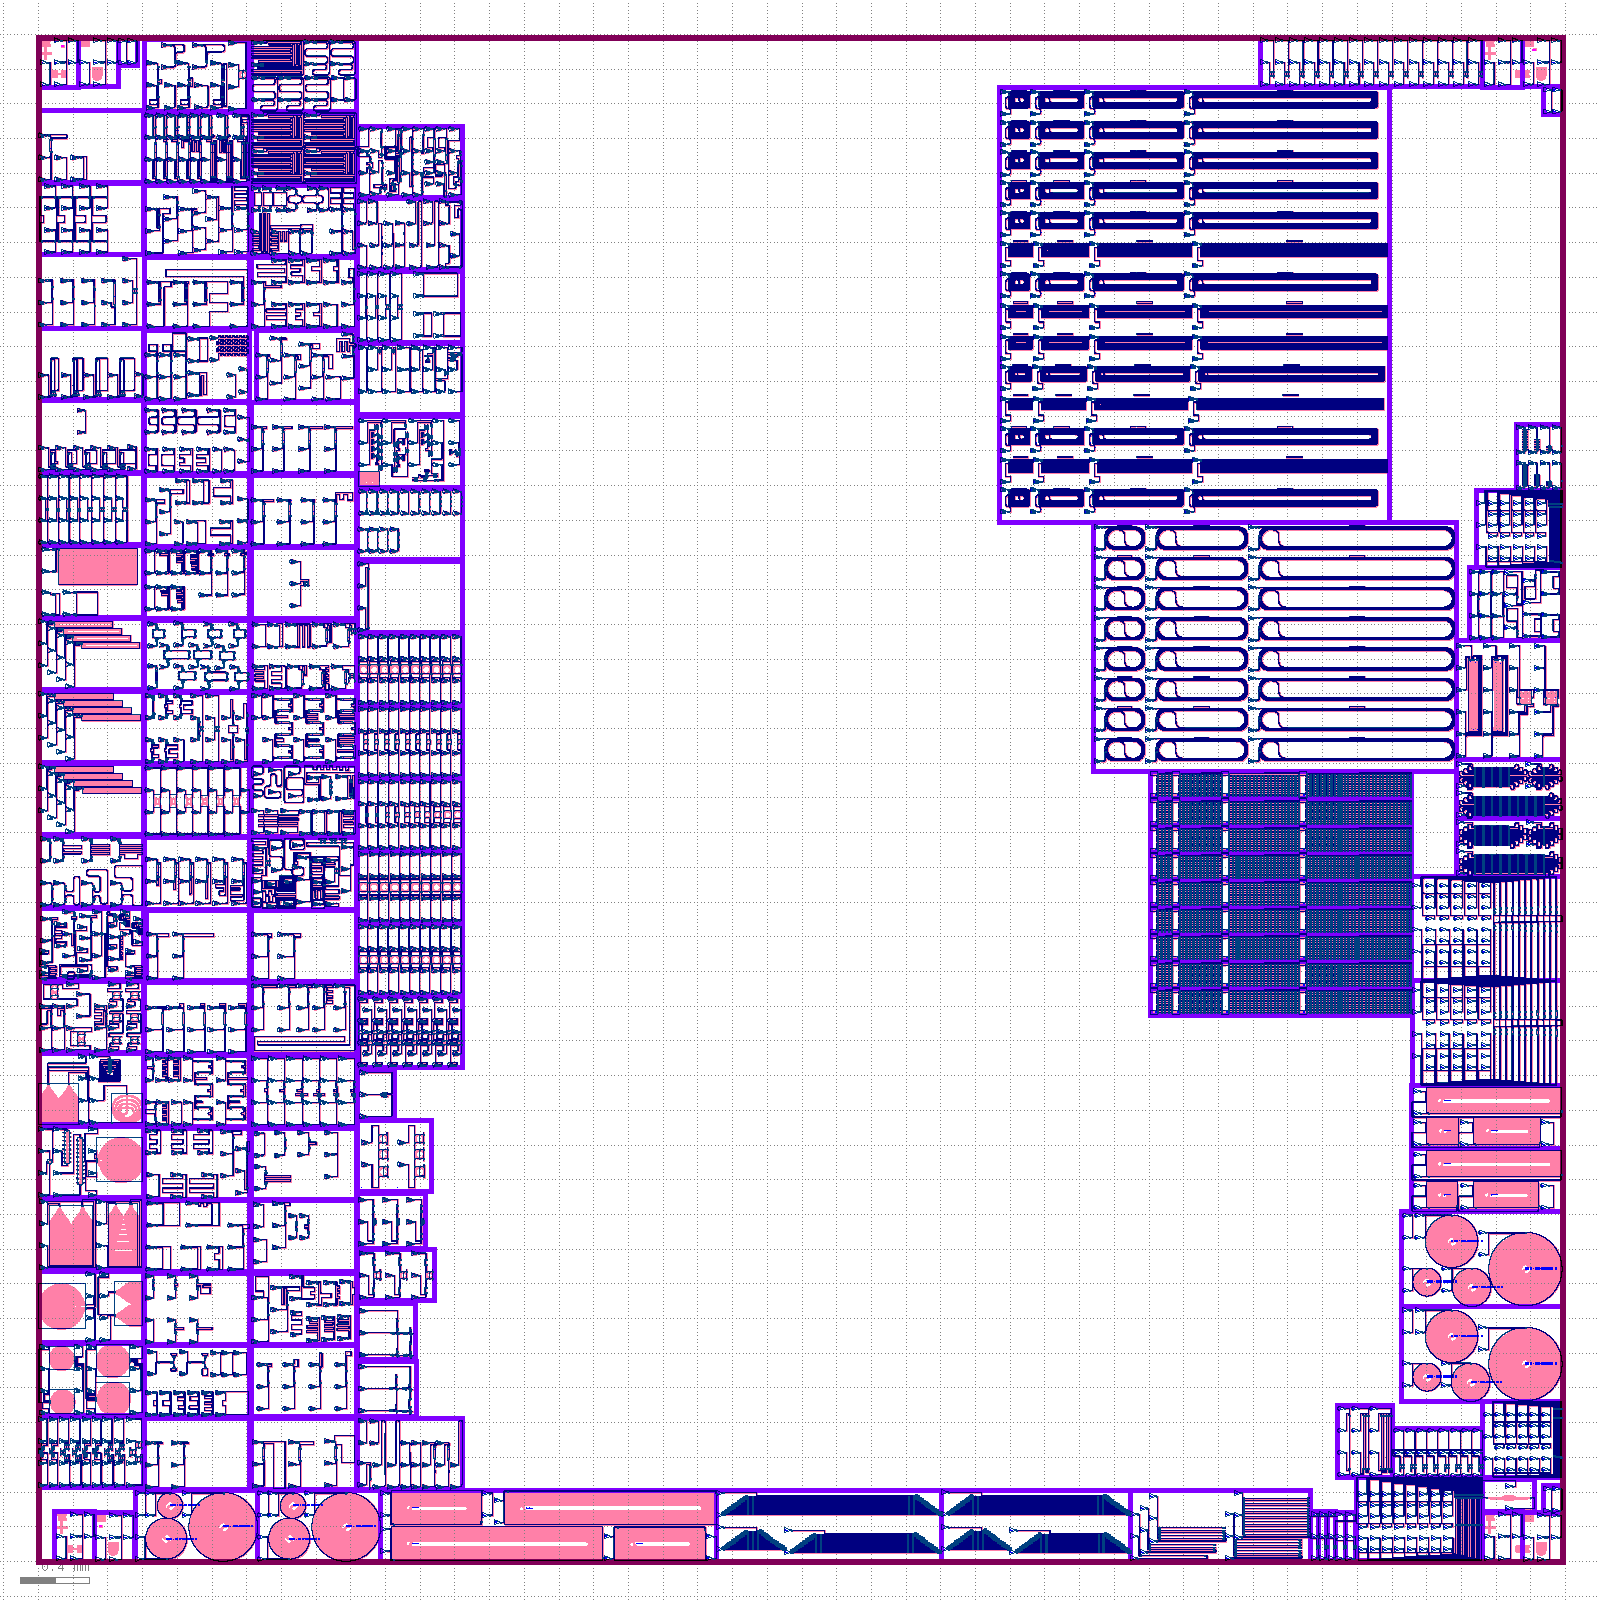
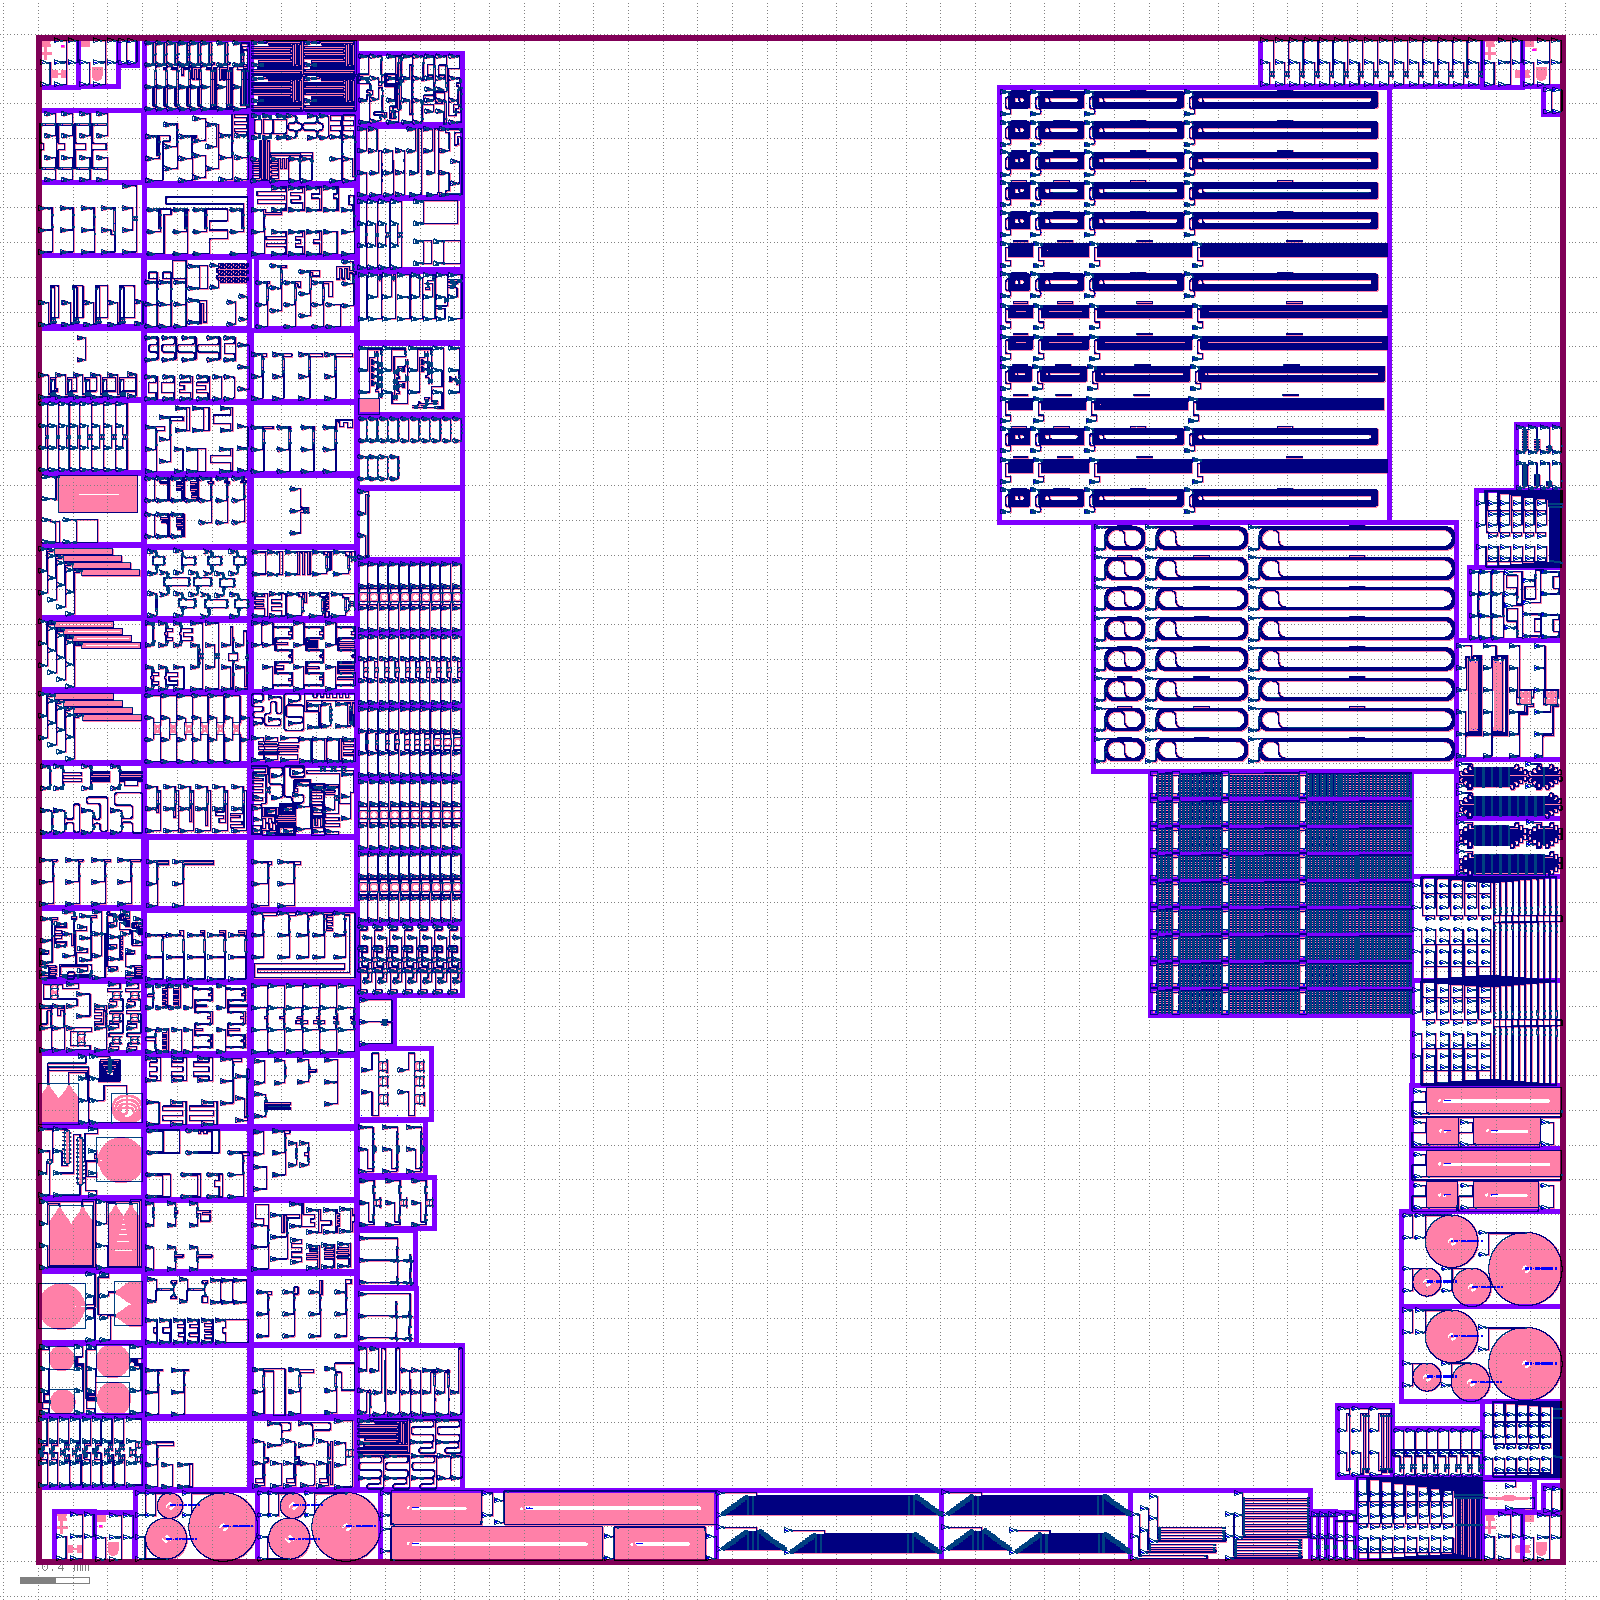
Aggregation layout: https://github.com/SiEPIC/openEBL-2026-05/actions/runs/25909878543/artifacts/7013760517

Changed region(s): [[0.0312, 0.0, 0.3125, 0.9375]]

diff --git a/README.md b/README.md
@@ -91,5 +91,5 @@ Will be added here.
 
 Click on the following link to download the EBeam.oas merged layout file:
 <!-- start-link -->
-https://github.com/SiEPIC/openEBL-2026-05/actions/runs/25909360817/artifacts/7013547699
+https://github.com/SiEPIC/openEBL-2026-05/actions/runs/25909878543/artifacts/7013760517
 <!-- end-link -->